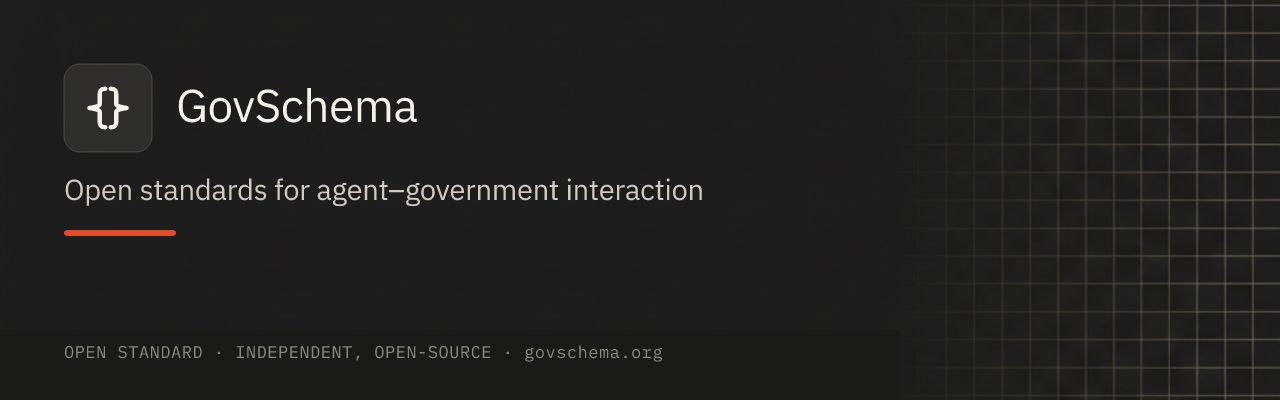
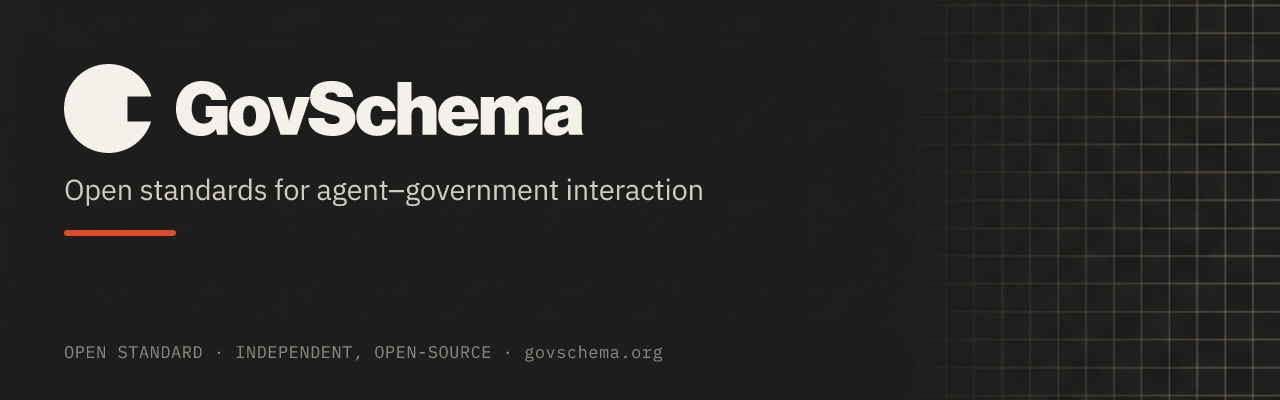
GOV-806: update GitHub graphics to the new notched-circle mark
Swap every old { } brace-mark asset in this repo for the corrected
GOV-666 notched-circle icon + vector wordmark, re-copied verbatim from
govschema-landing per assets/brand/SOURCE.md's no-drift rule:

- assets/hero.png: README banner patched in place (GOV-590 technique) —
  retired badge + text wordmark covered and the new lockup composited as
  vector at the same footprint; Nano background texture untouched. Also
  repaints the GOV-590 footer patch in the banner's true sampled ground
  color (#1d1d1d, not the #1a1a18 token), removing the visible band the
  earlier patch left behind.
- assets/hero.svg: flat vector reference source rebuilt around the new
  lockup; stale "DRAFT v0.1" footer claim dropped (GOV-590 convention).
- assets/brand/{favicon.svg,logo-lockup.svg}: re-copied from
  govschema-landing (GOV-666 corrected sources).
- assets/brand/{icon.png,logo-lockup.png}: re-rasterized via the same
  resvg + IBM Plex pipeline as govschema-landing/tools/rasterize.mjs.
- assets/brand/SOURCE.md: provenance updated for the new mark.

Changed region(s): [[0.0312, 0.15, 0.4688, 0.39]]

diff --git a/assets/brand/SOURCE.md b/assets/brand/SOURCE.md
@@ -1,18 +1,19 @@
 # Brand asset provenance
 
-The GovSchema mark — ink square, paper `{ }` brace — is the canonical brand
-mark established for [govschema.org](https://govschema.org) (GOV-281, refined
-geometry GOV-208, board-confirmed GOV-197, recolored onto Direction C
-ink/paper GOV-303 Phase 6, was navy/white). These files are a direct copy from
-`govschema-landing`, not a redraw, so the standard repo and the marketing site
-share one identity.
+The GovSchema mark — notched-circle icon + bold custom "GovSchema" wordmark —
+is the canonical brand mark established for [govschema.org](https://govschema.org)
+(board-supplied replacement mark, GOV-666, 2026-07-02, superseding the earlier
+ink-square `{ }` brace mark: GOV-281, refined geometry GOV-208, board-confirmed
+GOV-197, Direction C recolor GOV-303 Phase 6). These files are a direct copy
+from `govschema-landing`, not a redraw, so the standard repo and the marketing
+site share one identity (re-synced GOV-806).
 
-| File               | Purpose                                                          |
-| ------------------ | ----------------------------------------------------------------- |
-| `favicon.svg`       | Source vector, mark only (64×64 viewBox).                        |
-| `logo-lockup.svg`   | Source vector, mark + "GovSchema" wordmark (480×96 viewBox).      |
-| `icon.png`          | Rasterized `favicon.svg` (256×256) — GitHub-safe raster for docs. |
-| `logo-lockup.png`   | Rasterized `logo-lockup.svg` (960×192, 2x) — used in `README.md`. |
+| File               | Purpose                                                                    |
+| ------------------ | --------------------------------------------------------------------------- |
+| `favicon.svg`       | Source vector, mark only (64×64 viewBox, paper mark on ink badge).         |
+| `logo-lockup.svg`   | Source vector, icon + wordmark + tagline (1039×235 viewBox, ink on light). |
+| `icon.png`          | Rasterized `favicon.svg` (256×256) — GitHub-safe raster for docs.          |
+| `logo-lockup.png`   | Rasterized `logo-lockup.svg` (2078×470, 2x) — for docs/press use.          |
 
 To regenerate the PNGs after a source SVG change, rasterize with
 [resvg](https://github.com/RazrFalcon/resvg) using the IBM Plex Sans/Mono